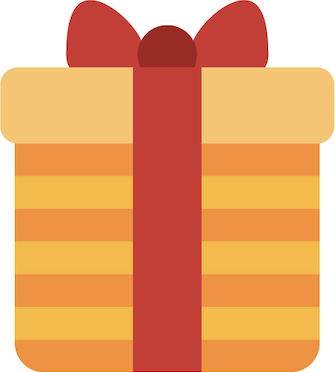
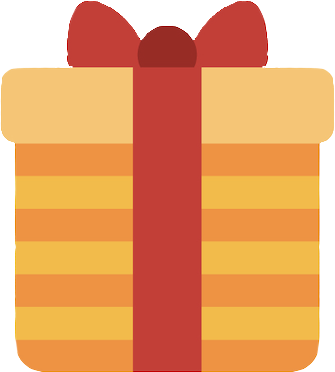
fixed grid on css page, removed background on images, made new favorite button, changed color scheme to match board game page

diff --git a/app/assets/stylesheets/pages/rewards_page/_reward_page.scss b/app/assets/stylesheets/pages/rewards_page/_reward_page.scss
@@ -1,7 +1,30 @@
+.reward-index-container {
+  background-color: rgb(179, 218, 252);
+}
+
 .reward-card {
   display: flex;
   flex-direction: column;
   align-items: center;
+}
+
+.reward-missions-back-btn {
+  margin-left: 10px;
+  font-size: 20px;
+  text-decoration: none;
+  color: rgb(28, 81, 166);
+}
+
+.transparent-yellow-container {
+  display: flex;
+  justify-content: center;
+  align-items: center;
+  background-color: rgba(255, 225, 0, 0.833); /* Solid yellow with transparency */
+  width: 55px; /* Adjust the width as needed */
+  height: 55px; /* Adjust the height as needed */
+  border-radius: 50%; /* Adjust border-radius for rounded corners */
+  color: white; /* Text color */
+  font-size: 20px; /* Adjust the font size */
 }
 
 .reward-header-name {
@@ -24,8 +47,9 @@
   font-size: 33px;
   align-items: center;
   position: fixed;
-  background-color: white;
+  background-color: rgb(179, 218, 252);
   right: 0;
+  padding: 0;
   border-radius: 10px;
   z-index: 1030;
 }
@@ -38,14 +62,35 @@
   display: flex;
   flex-direction: column;
   justify-content: space-between;
+  align-items: center;
   h3 {
     text-align: center;
   }
 }
 
-.disabled-reward {
-  filter: grayscale(100%);
+.reward-card-image {
+  background-image: url('/assets/Reward-icon-4-6bc5ce9c07afd43efd89bb6959935e2eab69d51605c28029a91c63876db9d9f0.png');
+  background-size: cover;
+  width: 150px;
+  display: flex;
+  align-items: center;
+  justify-content: center;
+  color: white;
+  text-align: center;
+  height: 180px;
+  background-position: center;
 }
+
+.reward-iterate-container {
+  display: grid;
+  grid-template-columns: 3fr 3fr 3fr 3fr;
+  // grid-column-gap: 20px;
+  // grid-row-gap: 20px;
+}
+
+// .disabled-reward {
+//   filter: grayscale(100%);
+// }
 
 .reward-card-top img {
   width: 100%;

diff --git a/app/assets/stylesheets/components/_buttons.scss b/app/assets/stylesheets/components/_buttons.scss
@@ -62,9 +62,10 @@
 }
 
 .btn-view-all {
-background-color: darkcyan;
-border-radius: 25px;
-margin-top: 3px;
+  background-color: #5e7cc7;
+  border-radius: 25px;
+  margin-top: 3px;
+  color: white;
 }
 
 .btn-board-dekitayo {

diff --git a/app/assets/stylesheets/components/_childshow.scss b/app/assets/stylesheets/components/_childshow.scss
@@ -55,7 +55,7 @@ h3 {
   justify-content: space-between;
   align-items: center;
   border-bottom: 2px solid white;
-  background-color: darkcyan;
+  background-color: #5e7cc7;
 }
 
 // #header h1 {

diff --git a/app/assets/stylesheets/components/_gameboard.scss b/app/assets/stylesheets/components/_gameboard.scss
@@ -151,7 +151,7 @@
 
 #gameboard-body {
   height: calc(100vh - 80px);
-  background-color: lightblue;
+  background-color: rgb(179, 218, 252);
 }
 
 .coins {

diff --git a/db/seeds.rb b/db/seeds.rb
@@ -850,7 +850,7 @@ Child.all.each do |child|
   )
 
   Reward.create!(
-    name: "Ice cream",
+    name: "Ice Cream",
     description: "A yummy frozen treat",
     price: 20,
     inventory: 100,
@@ -858,7 +858,7 @@ Child.all.each do |child|
   )
 
   Reward.create!(
-    name: "500 yen",
+    name: "Eraser Set",
     description: "Choose something from the store",
     price: 15,
     inventory: 100,
@@ -873,7 +873,7 @@ Child.all.each do |child|
     child: child  )
 
   Reward.create!(
-    name: "Museum Trip",
+    name: "Museum",
     description: "Choose a museum to visit",
     price: 50,
     inventory: 25,
@@ -894,7 +894,7 @@ Child.all.each do |child|
     child: child  )
 
   Reward.create!(
-  name: "Visit Tokyo Dome",
+  name: "Tokyo Dome",
   description: "See a baseball game for this season",
   price: 75,
   inventory: 0,

diff --git a/app/controllers/rewards_controller.rb b/app/controllers/rewards_controller.rb
@@ -1,6 +1,6 @@
 class RewardsController < GamesController
   def index
-    @random_images = ["Reward-icon-1.png", "Reward-icon-2.png", "Reward-icon-3.png", "Reward-icon-4.png", "Reward-icon-5.png", "Reward-icon-6.png", "Reward-icon-7.png", "Reward-icon-8.png"]
+    @random_images = ["Reward-icon-1.png", "Reward-icon-2.png", "Reward-icon-3.png", "Reward-icon-4.png", "Reward-icon-5.png"]
     @rewards = Reward.where(child: current_child)
   end
 end
